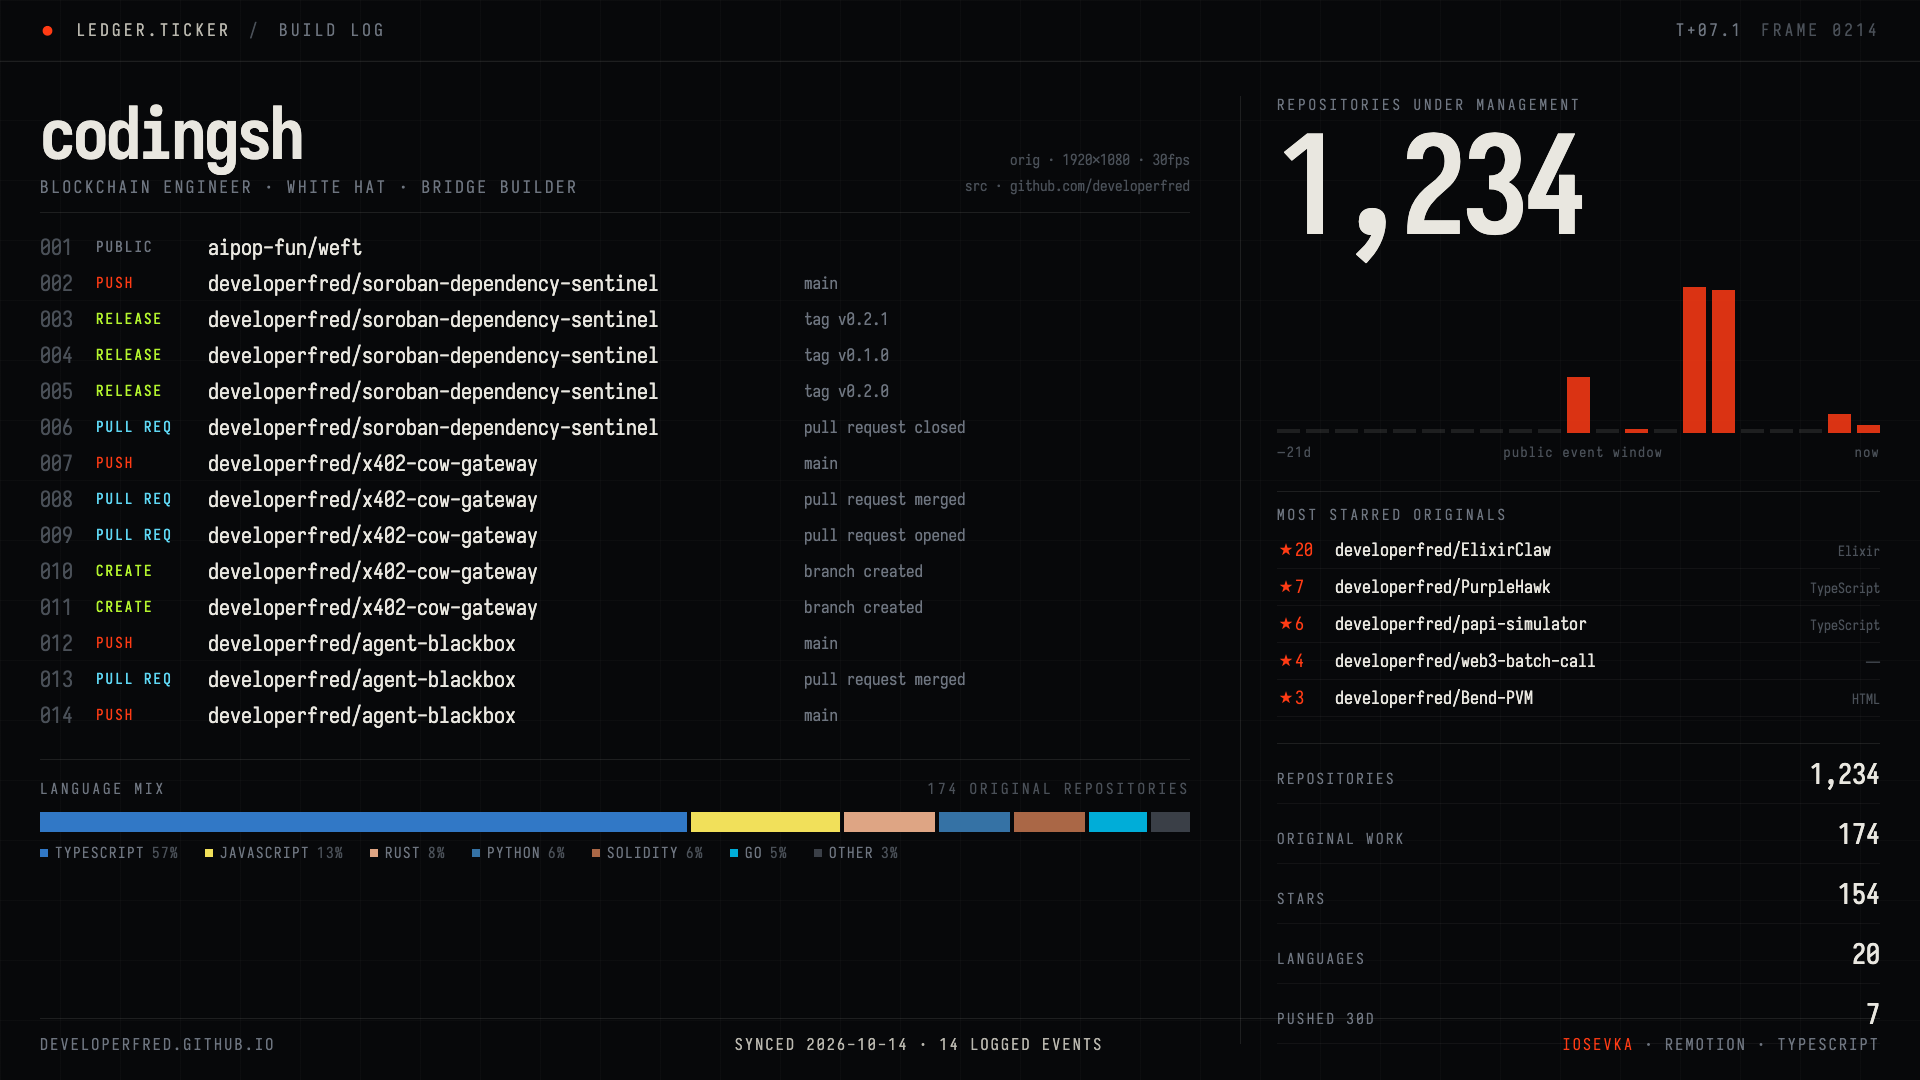
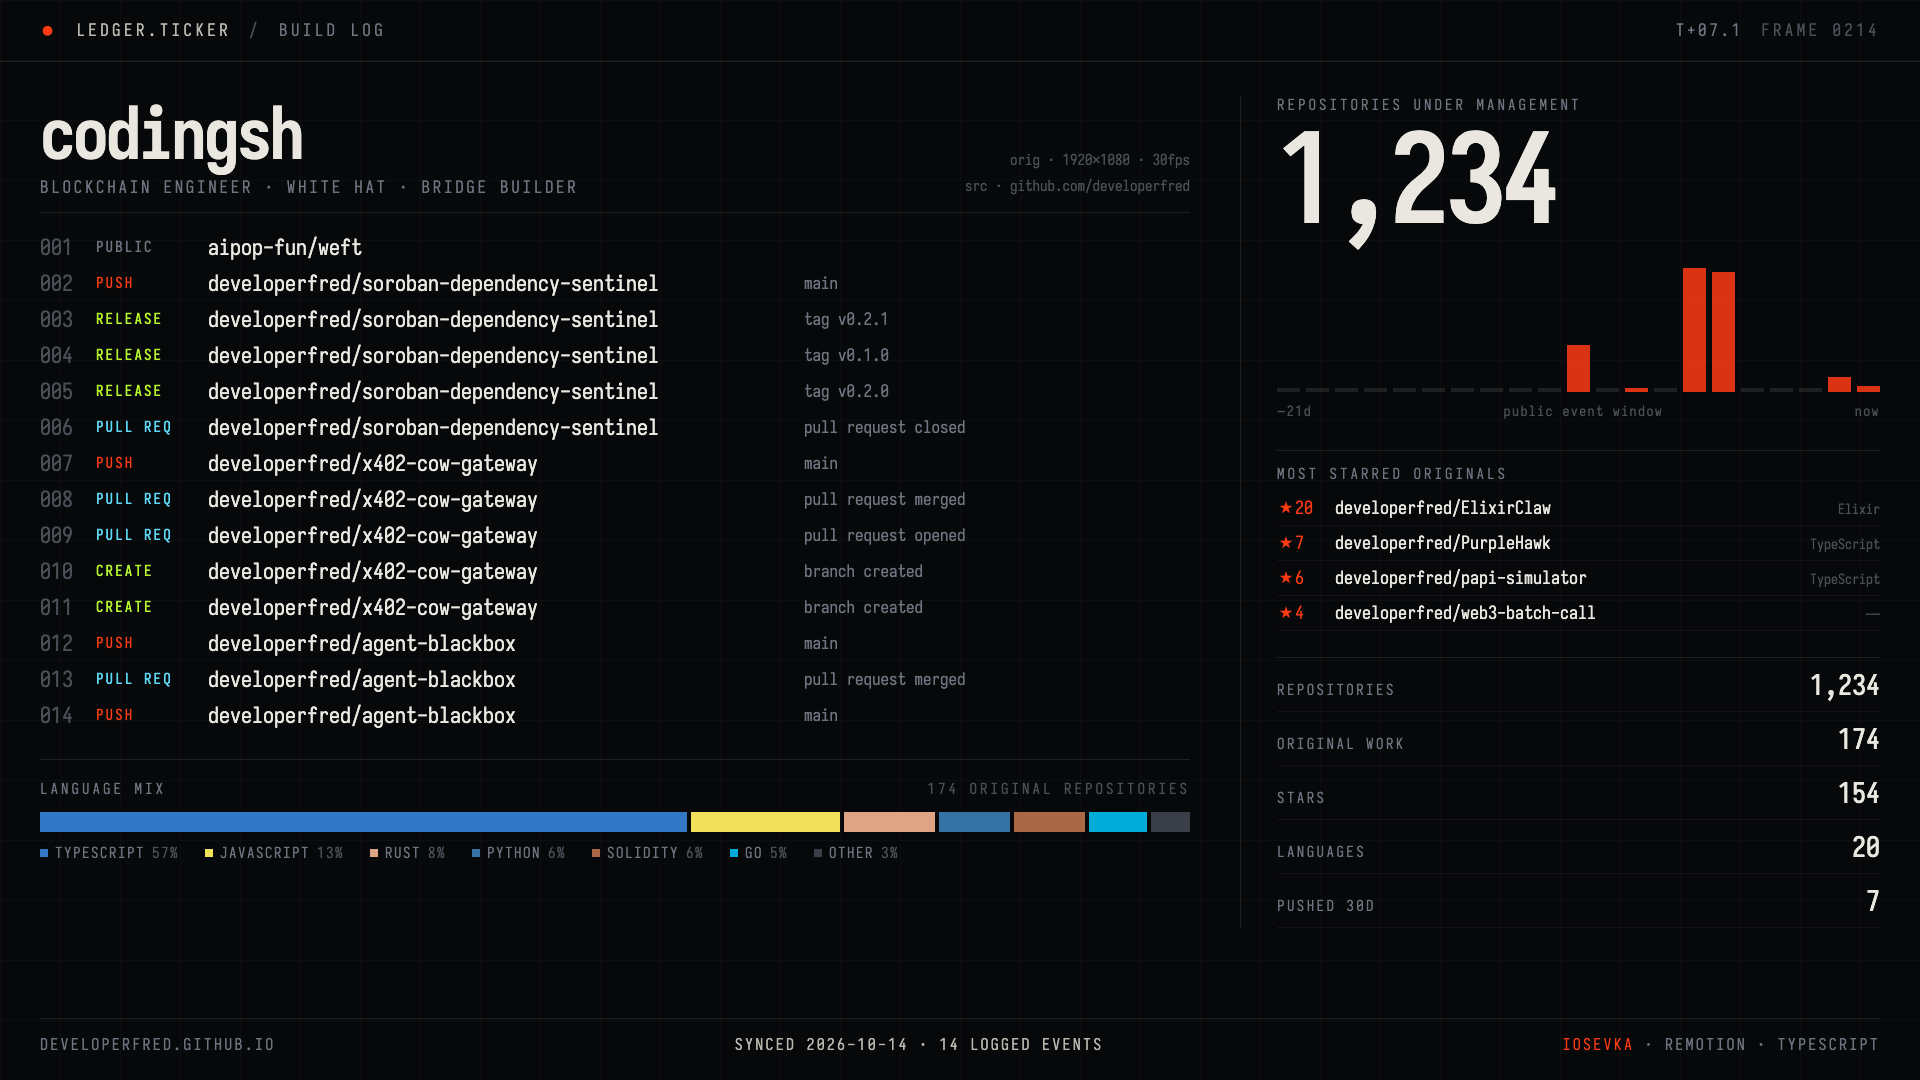
ci: add a branch publisher as an escape hatch for a stuck Pages queue
actions/deploy-pages refuses to create a deployment while an earlier one is
still marked in progress, and that state cannot be cleared through the REST
API. deploy.yml now has a second publish path, selected per repository with the
PAGES_PUBLISH variable, that pushes dist/ to gh-pages instead.

Also: re-rendered og.png, the poster and the MP4 after adopting Iosevka's cv01
slashed zero, which the default dotted zero needs at micro sizes.

diff --git a/src/styles/base.css b/src/styles/base.css
@@ -34,7 +34,11 @@ body {
   line-height: 1.62;
   font-weight: 400;
   font-variant-ligatures: none; /* Iosevka's programming ligatures hurt UI copy */
-  font-feature-settings: 'calt' 0;
+  /* cv01 = slashed zero: this page is mostly numerals, and the default dotted
+     zero turns into an 8 at micro sizes. The subset keeps the alternate. */
+  font-feature-settings:
+    'calt' 0,
+    'cv01' 1;
   -webkit-font-smoothing: antialiased;
   -moz-osx-font-smoothing: grayscale;
   text-rendering: optimizeLegibility;

diff --git a/remotion/BuildLog.tsx b/remotion/BuildLog.tsx
@@ -54,7 +54,8 @@ export const BuildLog: React.FC<LedgerReelProps> = (props) => {
   });
 
   return (
-    <AbsoluteFill style={{ backgroundColor: COLORS.ink, fontFamily: FONT, color: COLORS.paper }}>
+    <AbsoluteFill style={{ backgroundColor: COLORS.ink, fontFamily: FONT,
+        fontFeatureSettings: "'calt' 0, 'cv01' 1", color: COLORS.paper }}>
       <Grid width={width} height={height} opacity={0.5 * boot} />
 
       {/* scanline */}

diff --git a/remotion/OgCard.tsx b/remotion/OgCard.tsx
@@ -15,6 +15,7 @@ export const OgCard: React.FC<LedgerReelProps> = (props) => {
       style={{
         backgroundColor: COLORS.ink,
         fontFamily: FONT,
+        fontFeatureSettings: "'calt' 0, 'cv01' 1",
         color: COLORS.paper,
         padding: 56,
         display: 'flex',

diff --git a/README.md b/README.md
@@ -104,6 +104,20 @@ Two things worth knowing when wiring a new surface:
   with `-X PUT -d '{"build_type":"workflow"}'` if it says `"build_type": "legacy"`.
 - **For a custom domain**, set it in **Settings → Pages → Custom domain**. To also write a `CNAME`
   file into the artifact, build with `SITE_CUSTOM_DOMAIN=aipop.fun`.
+- **If a deployment ever reports `Deployment request failed … due to in progress deployment`**, the
+  Pages queue is stuck behind a deployment that was superseded mid-flight. It cannot be cancelled
+  through the REST API (the cancel endpoint wants an internal Pages id). Two ways out: cancel it by
+  hand in the repository's Actions UI, or set the repository variable `PAGES_PUBLISH=branch` and
+  switch Pages → Source to *Deploy from a branch: gh-pages*. `deploy.yml` then publishes through
+  `peaceiris/actions-gh-pages` instead, which never touches the Pages deployments API. That is how
+  `aipop-fun/site` is published.
+
+```bash
+# flip a repository to the branch publisher
+curl -X POST -H "Authorization: Bearer $TOKEN" \
+  https://api.github.com/repos/OWNER/REPO/actions/variables \
+  -d '{"name":"PAGES_PUBLISH","value":"branch"}'
+```
 
 Remotion is free for individuals and small teams; companies above its threshold need a Remotion
 license — see <https://remotion.dev/license>.
